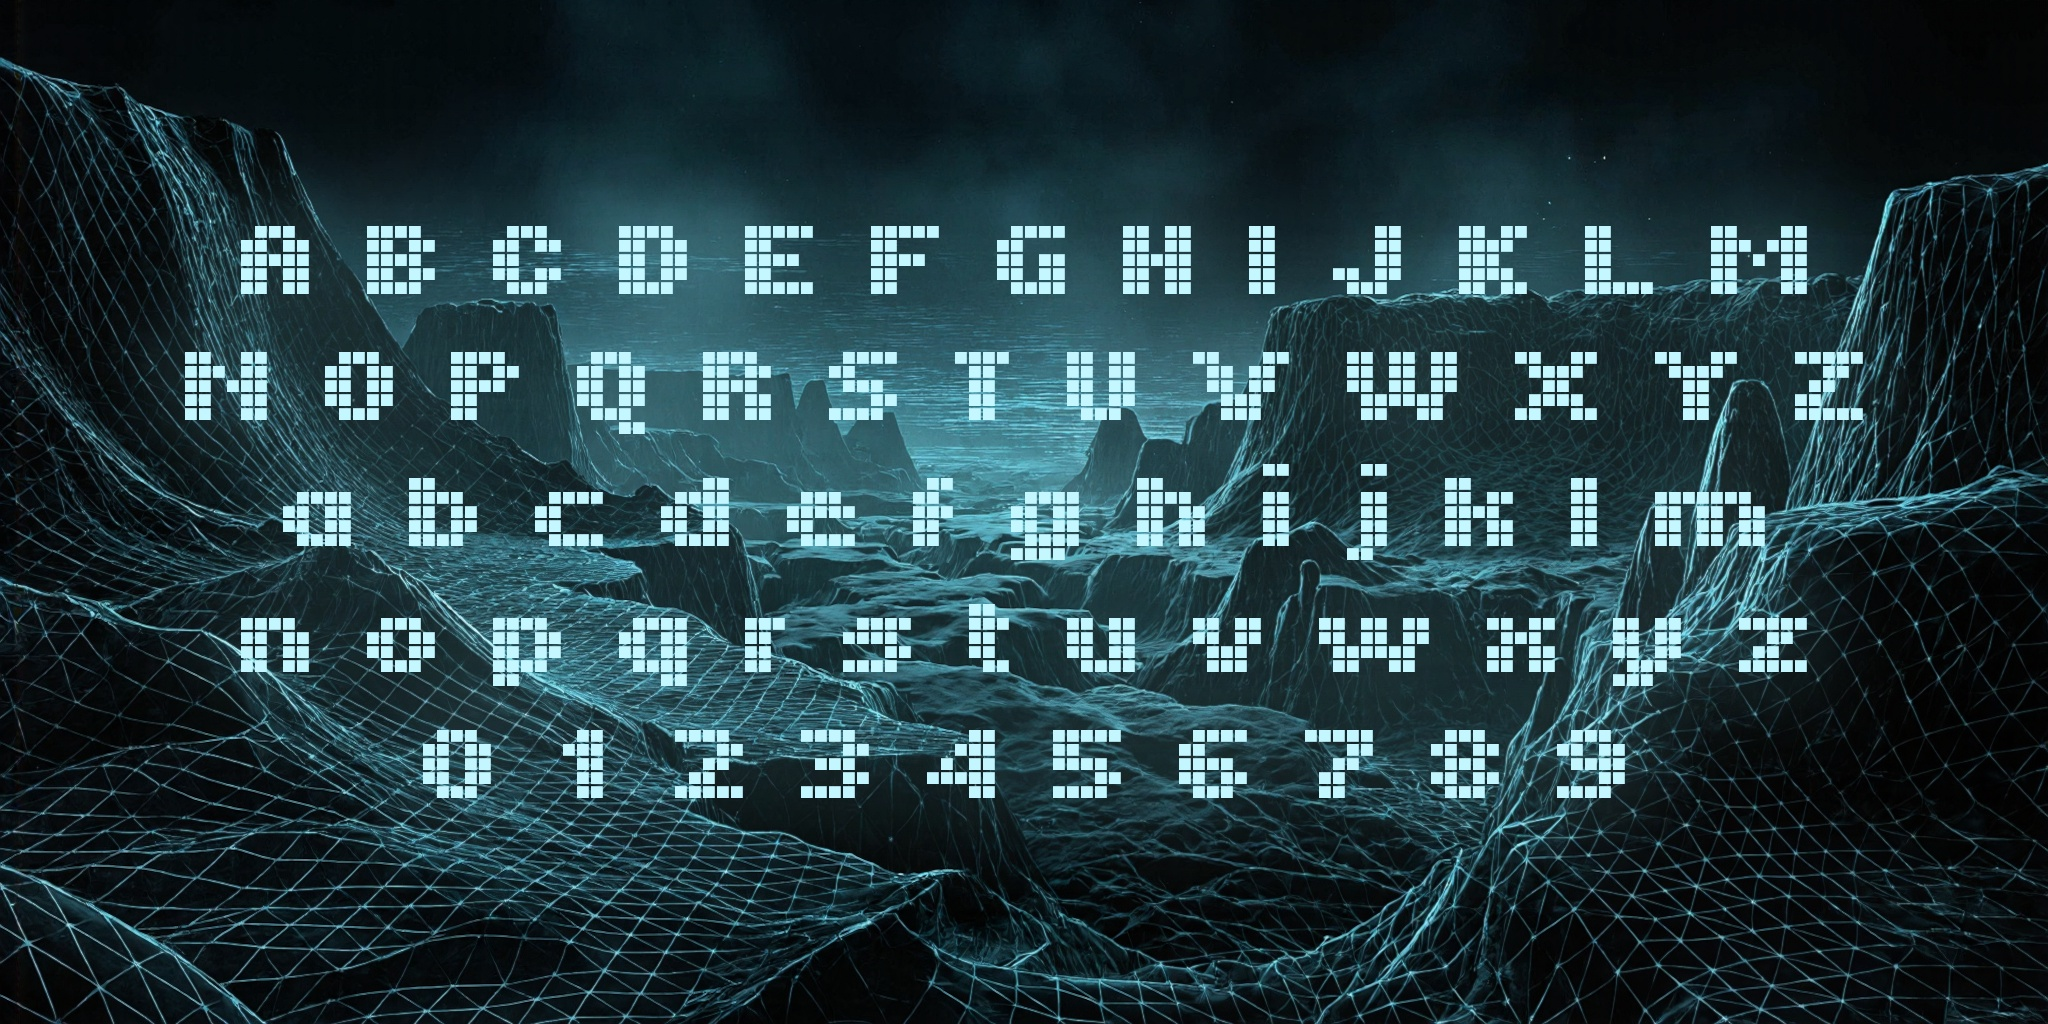
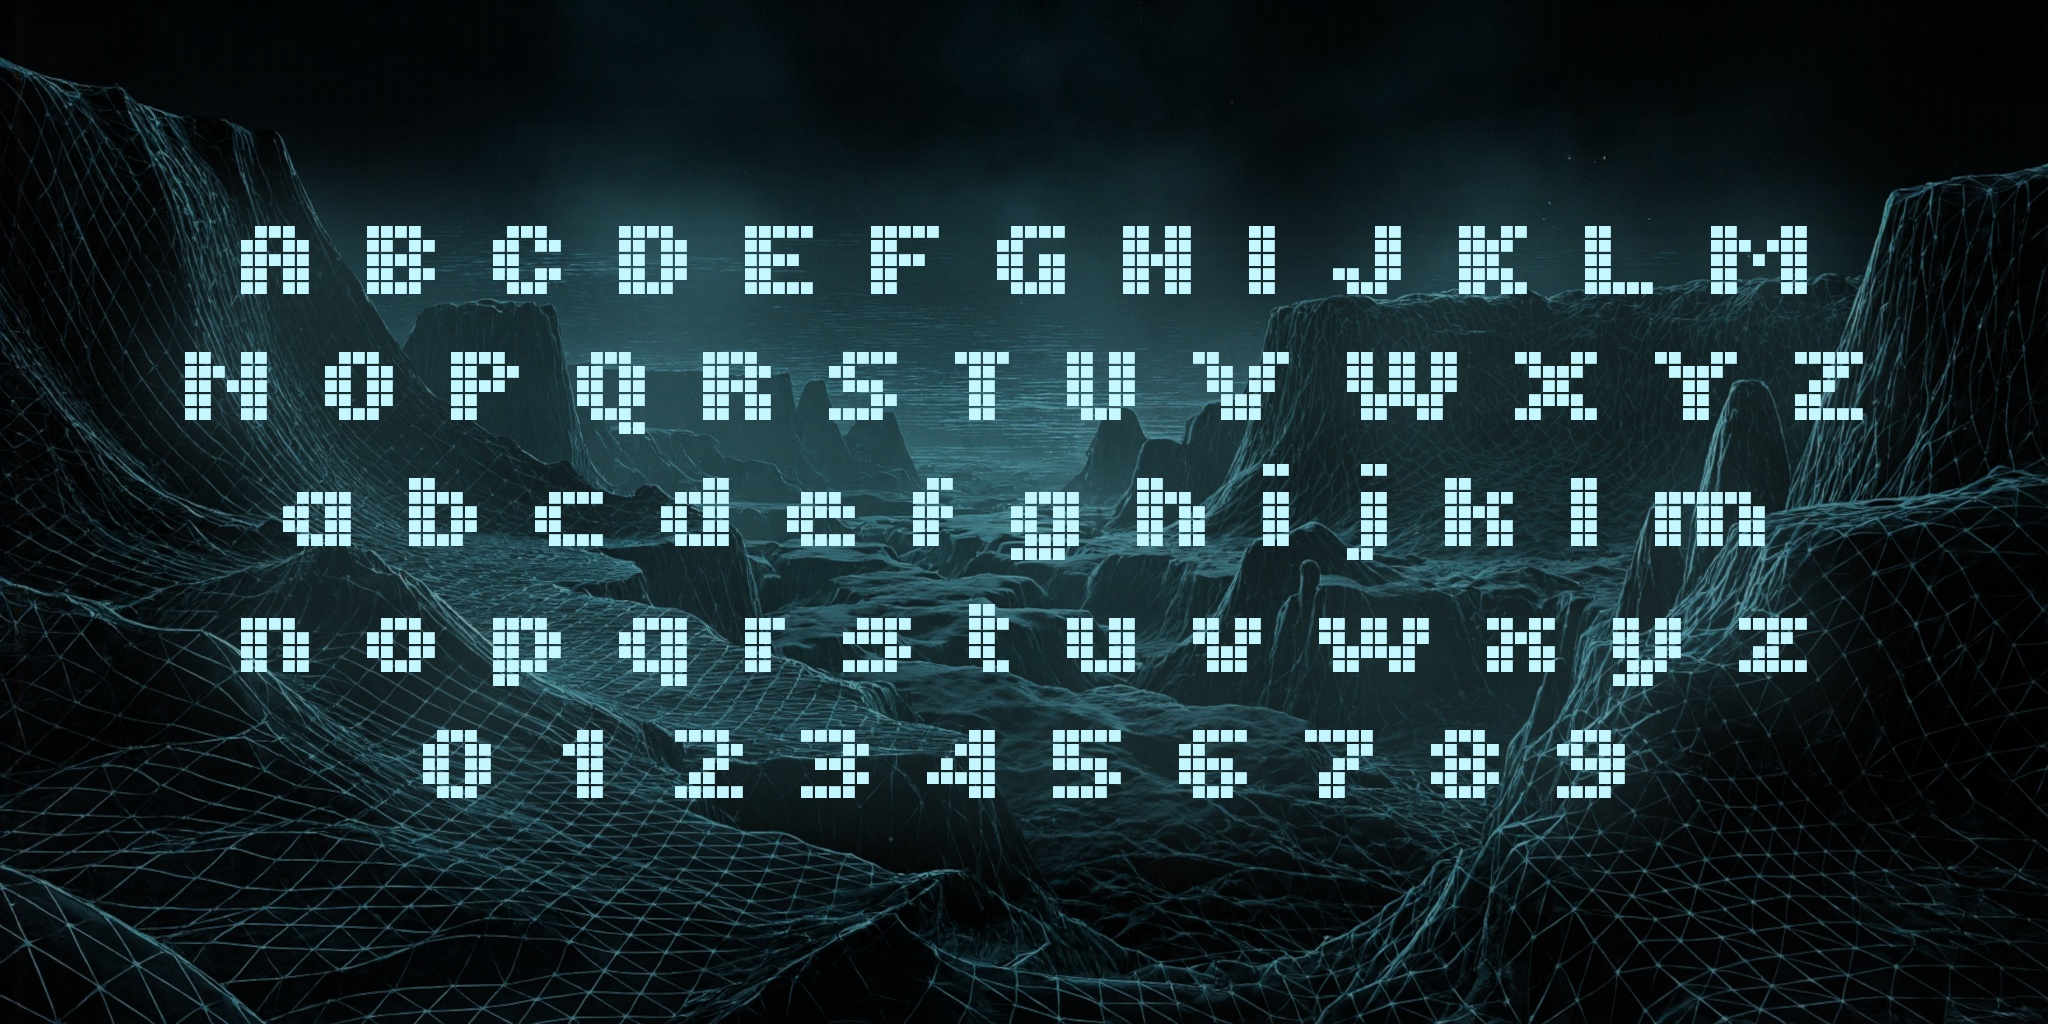
Specimen update

diff --git a/documentation/build-images.py b/documentation/build-images.py
@@ -7,7 +7,7 @@
 import random
 from pathlib import Path
 
-from PIL import Image, ImageChops, ImageDraw, ImageFilter, ImageFont
+from PIL import Image, ImageChops, ImageDraw, ImageEnhance, ImageFilter, ImageFont
 
 ROOT_PATH = Path(__file__).resolve().parent.parent
 SRC_PATH = ROOT_PATH / "documentation/src"
@@ -205,7 +205,7 @@ def draw_presentation(path_in, path_out):
     subtitle_size = 12 * FONT_PIXEL_SIZE
 
     content_left = img.width // 2
-    content_top = (img.height - (title_size + subtitle_size)) // 2
+    content_top = (img.height - (title_size + 2 * subtitle_size)) // 2
 
     fill_color = (195, 246, 255)
     glow_color = (0, 186, 219)
@@ -225,6 +225,7 @@ def draw_specimen(path_in, path_out, font_name, element_size=16):
     The wider Tiny5 Duo needs a smaller element size to keep its margins.
     """
     img = load_image(path_in)
+    img = ImageEnhance.Brightness(img).enhance(0.6)
 
     lines = [
         "A B C D E F G H I J K L M",
